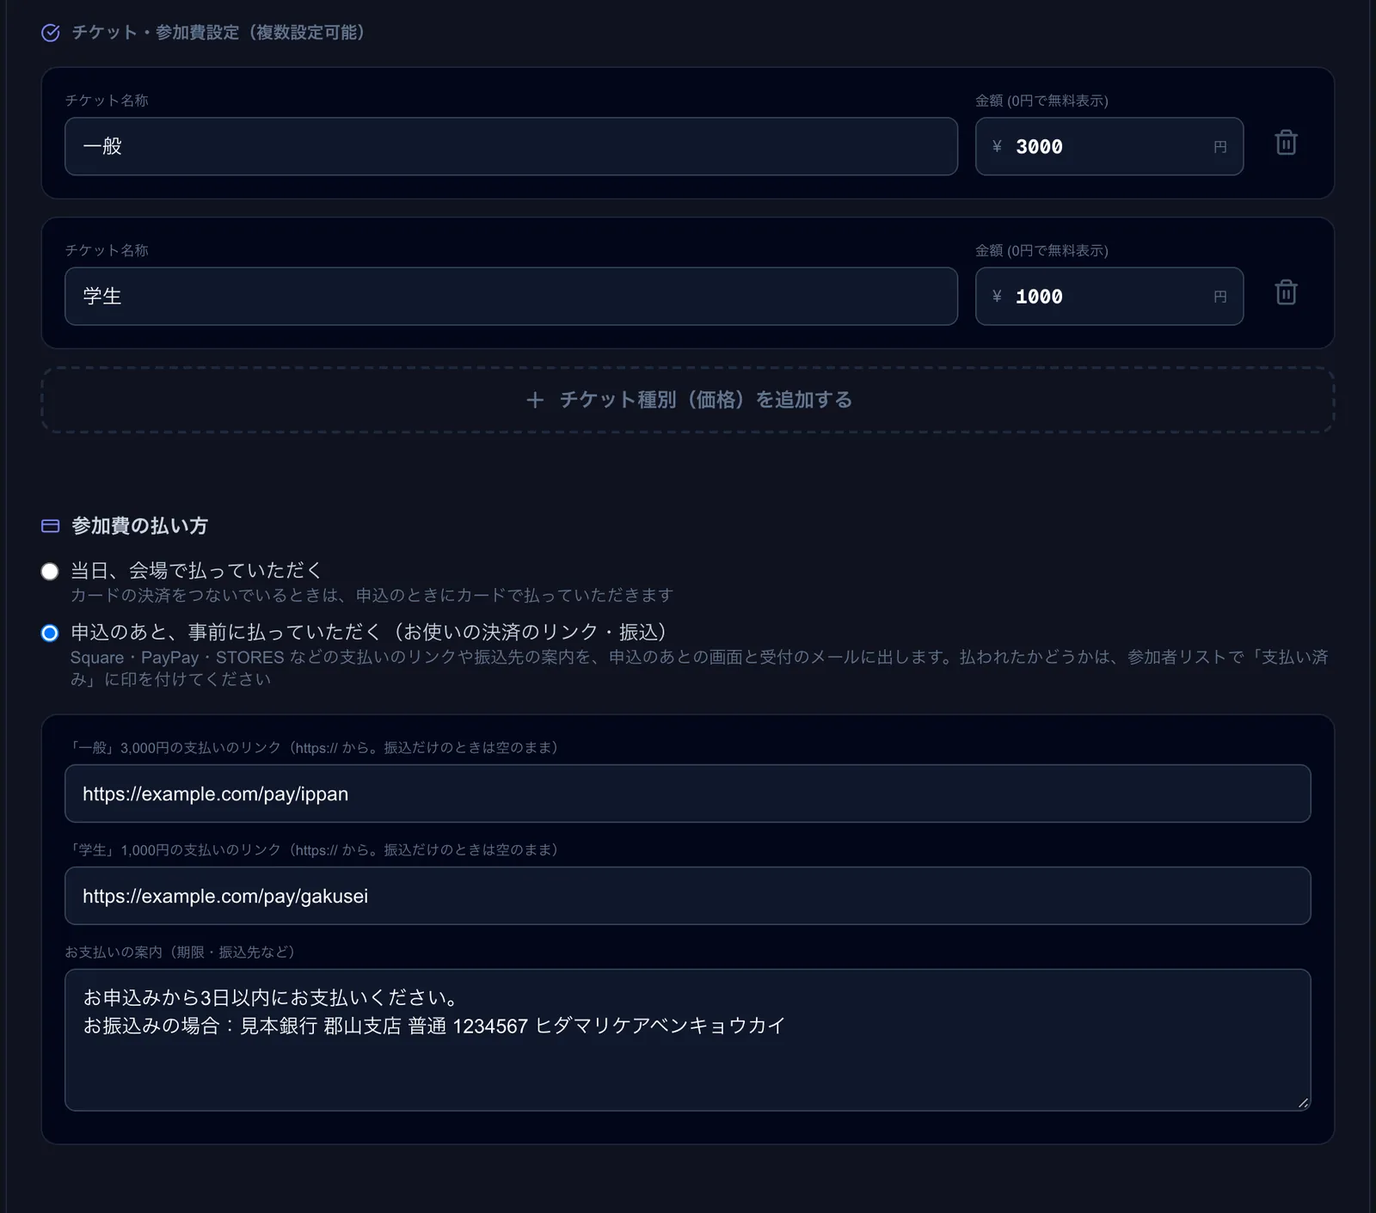
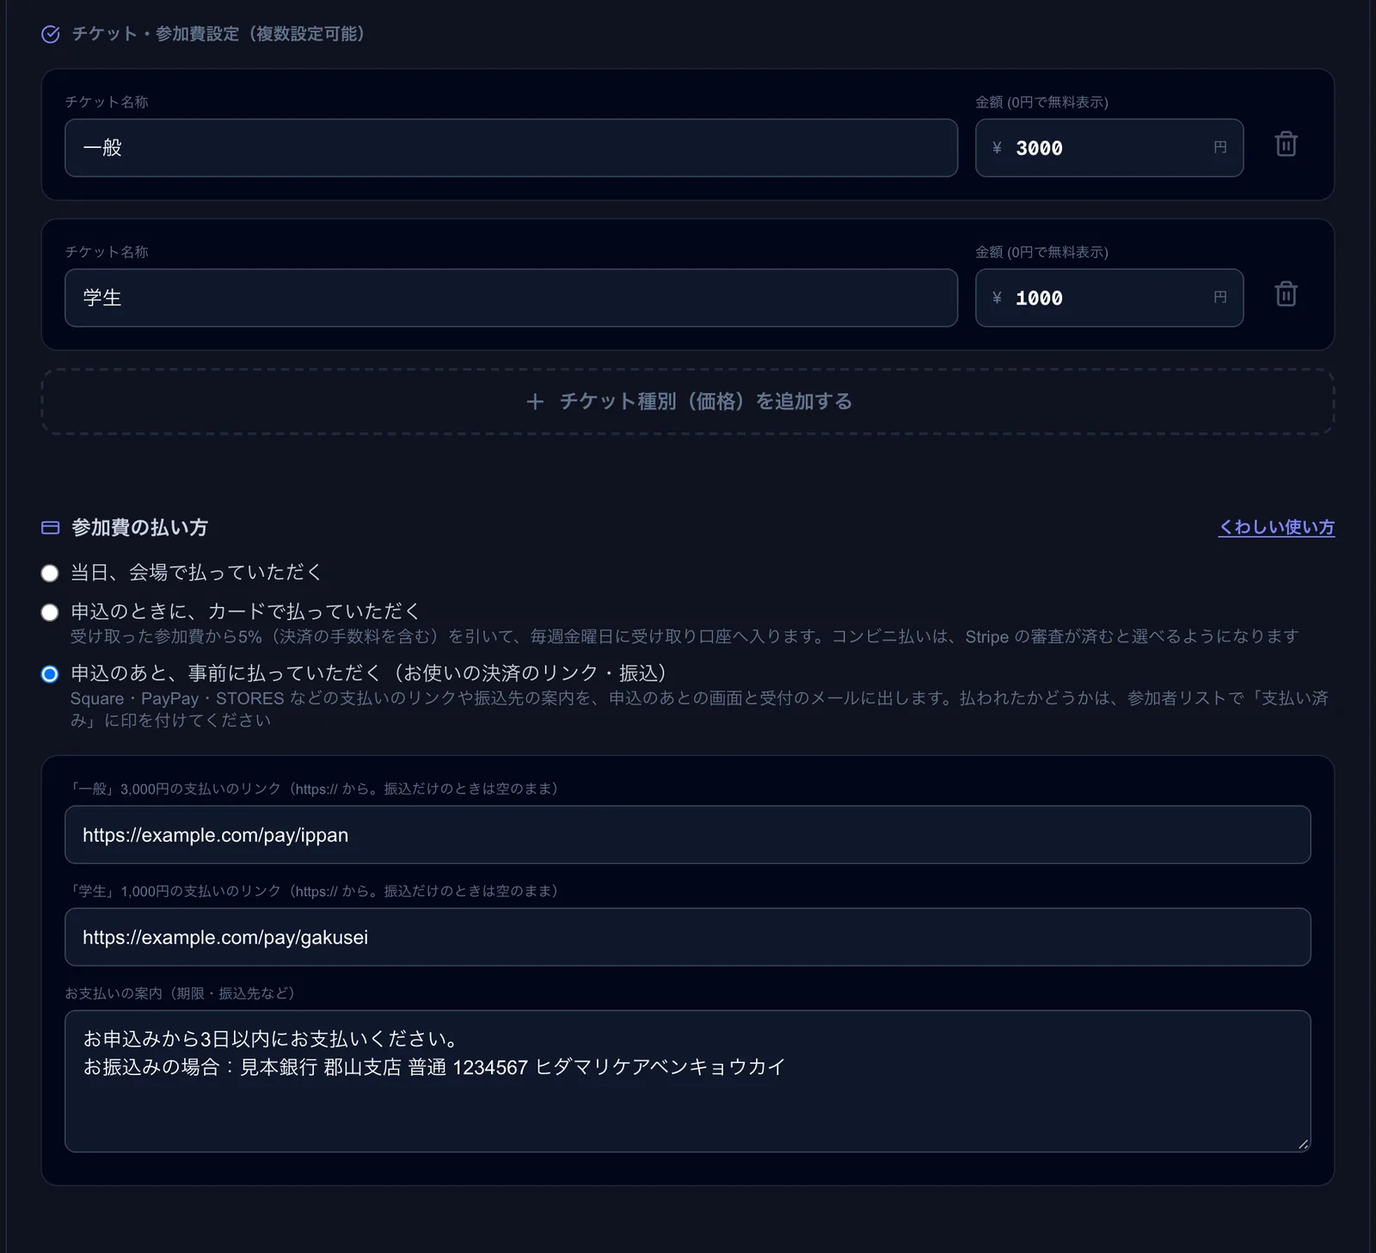
使い方のページに「申込のときに、カードで払っていただく」を足す：受け取り口座の登録と払い方の選び方、参加者の申込フォーム → Stripe の決済の画面 → 申込完了を、写真に赤い枠と番号で（参加者の画面は「申込ページの見本」で見本の参加者を入れて撮り、メールアドレスと QR は隠した）。参加費の払い方の写真を、払い方が3つの画面に撮り直す

diff --git a/app/guide/page.tsx b/app/guide/page.tsx
@@ -1,11 +1,12 @@
 // 📂 app/guide/page.tsx
 // 📝 役割：絆太郎でできること・使い方（画面の写真つき）。準備 → 申込 → 当日 → 終わったあと → 次のご案内 の順に並べる
 //   写真は手元で、架空の主催者「ひだまりケア勉強会（見本）」と架空の参加者のデータで撮った（public/guide/*.webp）
+//   カード払いの参加者の画面（#cardpay）だけは、本番の「申込ページの見本」のイベントに見本の参加者を入れて撮った（2026-11-03）
 import type { Metadata } from "next";
 import Link from "next/link";
 import type { ReactNode } from "react";
 import { ArrowRight, CalendarPlus, ClipboardList, Mail, MousePointerClick, QrCode, Send, UserPlus } from "lucide-react";
-import { Part, Phone, Phones, Screen } from "@/components/guide/GuideShots";
+import { Part, Phone, Phones, Screen, Steps } from "@/components/guide/GuideShots";
 
 export const metadata: Metadata = {
   title: "できること・使い方",
@@ -20,7 +21,7 @@ function Feature({ id, title, path, children, media, side = false }: { id?: stri
   return (
     <div id={id} className={`scroll-mt-24 py-10 md:py-14 border-t border-slate-200 first:border-t-0 ${side ? "md:grid md:grid-cols-[minmax(0,1fr)_auto] md:gap-12 md:items-start" : ""}`}>
       <div className={side ? "" : "max-w-3xl"}>
-        <h3 className="text-xl md:text-2xl font-bold text-slate-900 leading-snug mb-4">{title}</h3>
+        <h3 className="text-xl md:text-2xl font-bold text-slate-900 leading-snug mb-4 text-balance [word-break:auto-phrase]">{title}</h3>
         <div className="text-[15px] md:text-base text-slate-700 leading-[1.9] space-y-3">{children}</div>
         {path && (
           <p className="mt-4 flex items-start gap-2 text-sm text-slate-500">
@@ -82,7 +83,7 @@ export default function GuidePage() {
           <p className="mt-5 text-base md:text-lg text-slate-700 leading-[1.9] max-w-3xl">
             申込の受付から、当日の受付、アンケート、次のご案内まで。イベントの前から後までを、実際の画面の写真でご案内します。
           </p>
-          <p className="mt-3 text-sm text-slate-500">写真の主催者・講師・参加者は、すべて架空の見本です。</p>
+          <p className="mt-3 text-sm text-slate-500">写真の主催者・講師・参加者は、すべて架空の見本です。カード払いの参加者の画面は、トップページの「申込ページの見本」（運営会社の見本のイベント）に見本の参加者を入れて撮りました。</p>
 
           <nav aria-label="もくじ" className="mt-8 grid grid-cols-1 sm:grid-cols-2 lg:grid-cols-3 gap-3">
             {FLOW.map(f => (
@@ -118,7 +119,7 @@ export default function GuidePage() {
           </Feature>
 
           <Feature id="payment" title="参加費と、お支払いの方法" path="イベントの編集の「チケット・参加費設定」「参加費の払い方」「キャンセル・返金ポリシー」"
-            media={<div className="space-y-6"><Part name="editor-tickets" alt="チケットを一般・学生に分け、参加費の払い方で事前のお支払いを選び、お支払いのリンクと振込先の案内を入れた画面" /><div className="max-w-xl"><Part name="editor-cancel" alt="キャンセル・返金ポリシー。開催日の7日前まで100%、2日前まで50%を返金" /></div></div>}>
+            media={<div className="space-y-6"><Part name="editor-tickets" alt="チケットを一般・学生に分け、参加費の払い方の3つから事前のお支払いを選び、お支払いのリンクと振込先の案内を入れた画面" /><div className="max-w-xl"><Part name="editor-cancel" alt="キャンセル・返金ポリシー。開催日の7日前まで100%、2日前まで50%を返金" /></div></div>}>
             <p>「一般」「学生」のように、金額の違うチケットを作れます。払い方は、次の3つから選べます。</p>
             <div className="overflow-x-auto">
               <table className="w-full min-w-[520px] text-sm border border-slate-200 bg-white">
@@ -126,11 +127,75 @@ export default function GuidePage() {
                 <tbody>
                   <tr><td className="p-3 border-b border-slate-200 align-top">当日、会場で</td><td className="p-3 border-b border-slate-200">申込のあと、当日に会場で払います。</td></tr>
                   <tr><td className="p-3 border-b border-slate-200 align-top">申込のあと、事前に</td><td className="p-3 border-b border-slate-200">申込の完了画面と受付のメールに、お支払いのリンク（Square・PayPay・STORES など、お使いの決済）や振込先が出ます。払われたかどうかは、参加者リストで「支払い済み」に印を付けます。</td></tr>
-                  <tr><td className="p-3 align-top">申込のときに、カードで</td><td className="p-3">申込のときにカードで払います（コンビニ払いも、準備が整いしだい選べるようになります）。主催者は、設定の「参加費の受け取り口座」を登録しておきます。受け取った参加費から5%（決済の手数料を含む）を引いて、毎週金曜日に口座へ入ります。</td></tr>
+                  <tr><td className="p-3 align-top">申込のときに、カードで</td><td className="p-3">申込のときにカードで払います（コンビニ払いも、準備が整いしだい選べるようになります）。主催者は、設定の「参加費の受け取り口座」を登録しておきます。受け取った参加費から5%（決済の手数料を含む）を引いて、毎週金曜日に口座へ入ります。<a href="#cardpay" className="underline underline-offset-4" style={{ color: ORANGE }}>写真つきの流れ</a></td></tr>
                 </tbody>
               </table>
             </div>
             <p>キャンセル・返金の決まり（例：7日前まで全額）を決めると、申込フォームに表示されます。</p>
+          </Feature>
+
+          <Feature id="cardpay" title="申込のときに、カードで払っていただく" path="右上の歯車（設定）の「参加費の受け取り口座」と、イベントの編集の「参加費の払い方」"
+            media={<div className="space-y-14">
+              <div className="space-y-6">
+                <p className="text-sm font-bold text-slate-500">主催者の準備</p>
+                <div className="grid gap-6 sm:grid-cols-2 items-start max-w-3xl">
+                  <Part name="card-setup" alt="設定の有料イベントの決済設定。参加費の受け取り口座（カード払い）が「まだ」で、受け取りの口座を登録するのボタン" marks={[[1, 88, 594, 392, 80]]} />
+                  <Part name="card-ready" alt="登録が済んだあとの参加費の受け取り口座。「使えます」と、入金の記録を見る（Stripe）のボタン" />
+                </div>
+                <div className="max-w-2xl"><Part name="editor-paycard" alt="イベントの編集の参加費の払い方。申込のときに、カードで払っていただくを選んだところ" marks={[[2, 12, 138, 1132, 116]]} /></div>
+                <div className="max-w-3xl text-[15px] md:text-base text-slate-700 leading-[1.9]">
+                  <Steps items={[
+                    [1, <>設定の「参加費の受け取り口座」で「受け取りの口座を登録する」を押し、Stripe（決済の会社）の画面で、口座と代表者の本人確認などを入れます。登録が済むと「使えます」になります。</>],
+                    [2, <>イベントの編集の「参加費の払い方」で「申込のときに、カードで払っていただく」を選びます。</>],
+                  ]} />
+                </div>
+              </div>
+
+              <div className="space-y-10">
+                <div>
+                  <p className="text-sm font-bold text-slate-500">参加者の流れ</p>
+                  <p className="mt-2 text-sm text-slate-500 leading-relaxed">トップページのいちばん下の「<Link href="/sample-event" className="underline underline-offset-4" style={{ color: ORANGE }}>申込ページの見本</Link>」で、実際に申し込んで試せます（100円。受付のメールからキャンセルすると返金されます）。</p>
+                </div>
+                <div className="md:grid md:grid-cols-[auto_minmax(0,1fr)] md:gap-10 md:items-start space-y-6 md:space-y-0">
+                  <div className="flex flex-wrap justify-center gap-5"><Phone name="card-form-top" alt="スマホの申込フォーム（上）。チケットと、お名前・メールアドレス・電話番号・会社名" marks={[[1, 35, 226, 530, 117], [2, 35, 446, 530, 701]]} /><Phone name="card-form-bottom" alt="スマホの申込フォーム（下）。お支払いとキャンセルの案内、同意のチェック、申し込むボタン" marks={[[3, 35, 27, 530, 585], [4, 35, 652, 530, 184], [5, 35, 934, 530, 107]]} /></div>
+                  <div className="text-[15px] md:text-base text-slate-700 leading-[1.9]">
+                    <p className="font-bold text-slate-900 mb-3">申込フォーム</p>
+                    <Steps items={[
+                      [1, <>チケットを選びます。金額が出ます。</>],
+                      [2, <>お名前・メールアドレス・電話番号などを入れます。</>],
+                      [3, <>お支払いの方法と時期、キャンセル・返金の決まりが出ます。</>],
+                      [4, <>プライバシーポリシーへの同意にチェックを入れます。</>],
+                      [5, <>「100円で申し込む」（参加費の金額が出ます）を押すと、Stripe の決済の画面に移ります。</>],
+                    ]} />
+                  </div>
+                </div>
+                <div className="md:grid md:grid-cols-[auto_minmax(0,1fr)] md:gap-10 md:items-start space-y-6 md:space-y-0">
+                  <div className="w-full md:w-[520px]"><Part name="card-checkout" alt="Stripe の決済の画面。イベント名と金額、決済手段のカードとカード番号などの欄、支払うボタン" marks={[[1, 34, 72, 388, 88], [2, 575, 252, 396, 418], [3, 575, 677, 396, 72]]} /></div>
+                  <div className="text-[15px] md:text-base text-slate-700 leading-[1.9]">
+                    <p className="font-bold text-slate-900 mb-3">Stripe の決済の画面</p>
+                    <Steps items={[
+                      [1, <>申し込んだイベント・チケットと金額が出ます。</>],
+                      [2, <>カード番号・有効期限・セキュリティコード・カード名義を入れます。Apple Pay・Google Pay なども使えます（お使いの端末によって出ます）。</>],
+                      [3, <>「支払う」を押すと決済されます。</>],
+                    ]} />
+                    <p className="mt-3 text-sm text-slate-500">メールアドレスは、申込フォームで入れたものが入ります（写真では隠しています）。</p>
+                  </div>
+                </div>
+                <div className="md:grid md:grid-cols-[auto_minmax(0,1fr)] md:gap-10 md:items-start space-y-6 md:space-y-0">
+                  <div className="flex justify-center"><Phone name="card-thanks" alt="スマホの申込完了のページ。お申し込み完了と、受講票のQRコード（写真は見本）" marks={[[1, 44, 254, 511, 413]]} /></div>
+                  <div className="text-[15px] md:text-base text-slate-700 leading-[1.9]">
+                    <p className="font-bold text-slate-900 mb-3">申込完了</p>
+                    <Steps items={[
+                      [1, <>当日の受付で使う受講票のQRコードが出ます（写真のQRは見本です）。同時に受付のメールが届き、お支払いは「クレジットカード決済済」と出ます。</>],
+                    ]} />
+                    <p className="mt-3">キャンセルは、受付のメールのリンクから参加者がします。キャンセル・返金の決まりに沿って、カードへ自動で返金します。</p>
+                  </div>
+                </div>
+              </div>
+            </div>}>
+            <p>参加者は、申込のときに Stripe（決済の会社）の画面で、カードで払います。払い終わると申込が確定し、受付のメールが届きます。</p>
+            <p>受け取った参加費から5%（決済の手数料を含む）を引いて、毎週金曜日に主催者の受け取り口座へ入ります。例えば参加費 5,000円なら、4,750円が入ります。参加者からは手数料をいただきません。</p>
+            <p>返金したときも、5%の手数料は戻りません。コンビニ払いは、準備が整いしだい選べるようになります。</p>
           </Feature>
 
           <Feature id="flyer" title="チラシを作る" path="イベントのカードの「チラシ」" side

diff --git a/components/guide/GuideShots.tsx b/components/guide/GuideShots.tsx
@@ -2,6 +2,8 @@
 // 📝 役割：使い方のページの写真（public/guide/*.webp）を、パソコンの画面・切り抜き・スマホの枠で出す部品
 //   公開の使い方（/guide）と、管理画面の「参加費の受け取り方」（/admin/guide/payments）で同じものを使う
 //   写真は手元で、架空の主催者「ひだまりケア勉強会（見本）」と架空の参加者のデータで撮った
+//   カード払いの参加者の画面（card-form-*・card-checkout・card-thanks）は、本番の「申込ページの見本」のイベントで撮った（参加者は架空・メールアドレスと QR は隠した）
+//   marks＝写真の上の赤い枠と番号（写真のピクセルで書く）。説明は Steps に同じ番号で並べる
 import type { ReactNode } from "react";
 
 // 写真の大きさ（幅・高さ）。public/guide にある WebP と同じ
@@ -9,14 +11,51 @@ const IMG: Record<string, [number, number]> = {
   "admin-top": [1600, 1075], "event-card": [1600, 375],
   "theme-medical": [600, 1298], "theme-pop": [600, 1298], "theme-editorial": [600, 1298], "theme-nature": [600, 1298],
   "editor-theme": [1600, 1337], "editor-questions": [1600, 1321], "apply-form": [600, 1808],
-  "editor-tickets": [1600, 1411], "editor-cancel": [1200, 421], "flyer": [1200, 1693],
+  "editor-tickets": [1600, 1457], "editor-cancel": [1200, 421], "flyer": [1200, 1693],
   "apply-complete": [600, 1542], "editor-mail": [1600, 1166], "participants": [1600, 1125],
   "editor-presurvey": [1600, 773], "presurvey": [600, 1298], "mail-send": [1600, 1125],
   "checkin": [600, 1298], "survey-qr": [816, 1228], "survey": [600, 1789], "survey-results": [1600, 1125],
   "report-top": [1400, 1518], "report-survey": [1400, 1096], "kizuna-list": [1600, 1188],
   "newsletter": [1600, 1375], "card-scan": [600, 1298], "analytics": [1600, 1125], "staff": [900, 1554],
   "mail-delivery": [1520, 1084],
+  "card-setup": [956, 851], "card-ready": [956, 855], "editor-paycard": [1160, 400],
+  "card-form-top": [600, 1173], "card-form-bottom": [600, 1076], "card-checkout": [1000, 806], "card-thanks": [600, 1074],
 };
+// "editor-tickets" は 2026-11-03 に撮り直した（払い方が3つになった）
+
+export type Mark = [n: number, x: number, y: number, w: number, h: number];
+
+const RED = "#E5322D";
+
+// 写真の上の赤い枠と番号。親は写真と同じ大きさの relative な箱
+function Marks({ name, marks }: { name: string; marks?: Mark[] }) {
+  if (!marks?.length) return null;
+  const [W, H] = IMG[name];
+  const pct = (v: number, t: number) => `${(v / t) * 100}%`;
+  return (
+    <>
+      {marks.map(([n, x, y, w, h]) => (
+        <span key={n} aria-hidden className="absolute rounded-md pointer-events-none" style={{ left: pct(x, W), top: pct(y, H), width: pct(w, W), height: pct(h, H), border: `3px solid ${RED}`, boxShadow: "0 0 0 1.5px rgba(255,255,255,0.9)" }}>
+          <span className="absolute -left-3 -top-3 w-6 h-6 rounded-full text-white text-[13px] font-bold flex items-center justify-center" style={{ background: RED, boxShadow: "0 0 0 2px #fff" }}>{n}</span>
+        </span>
+      ))}
+    </>
+  );
+}
+
+// 写真の赤い番号と同じ番号の説明
+export function Steps({ items }: { items: [number, ReactNode][] }) {
+  return (
+    <ol className="space-y-3">
+      {items.map(([n, t]) => (
+        <li key={n} className="flex items-start gap-3">
+          <span className="mt-[3px] w-6 h-6 rounded-full text-white text-[13px] font-bold flex items-center justify-center shrink-0" style={{ background: RED }} aria-hidden>{n}</span>
+          <span>{t}</span>
+        </li>
+      ))}
+    </ol>
+  );
+}
 
 export function Img({ name, alt, className = "" }: { name: string; alt: string; className?: string }) {
   const [w, h] = IMG[name];
@@ -35,20 +74,31 @@ export function Screen({ name, alt }: { name: string; alt: string }) {
   );
 }
 
-// 画面の一部を切り抜いた写真
-export function Part({ name, alt }: { name: string; alt: string }) {
+// 画面の一部を切り抜いた写真（marks＝赤い枠と番号。番号が角からはみ出しても切れないよう、枠は写真の外の箱に置く）
+export function Part({ name, alt, marks }: { name: string; alt: string; marks?: Mark[] }) {
+  if (!marks?.length) {
+    return (
+      <figure className="rounded-xl overflow-hidden border border-slate-200 shadow-[0_12px_32px_rgba(15,23,42,0.10)]">
+        <Img name={name} alt={alt} />
+      </figure>
+    );
+  }
   return (
-    <figure className="rounded-xl overflow-hidden border border-slate-200 shadow-[0_12px_32px_rgba(15,23,42,0.10)]">
-      <Img name={name} alt={alt} />
+    <figure className="relative">
+      <div className="rounded-xl overflow-hidden border border-slate-200 shadow-[0_12px_32px_rgba(15,23,42,0.10)]"><Img name={name} alt={alt} /></div>
+      <Marks name={name} marks={marks} />
     </figure>
   );
 }
 
-// スマホの画面（fluid は並べた枠の幅いっぱい）
-export function Phone({ name, alt, fluid = false }: { name: string; alt: string; fluid?: boolean }) {
+// スマホの画面（fluid は並べた枠の幅いっぱい・marks＝赤い枠と番号）
+export function Phone({ name, alt, fluid = false, marks }: { name: string; alt: string; fluid?: boolean; marks?: Mark[] }) {
   return (
     <figure className={`${fluid ? "w-full" : "w-[230px] sm:w-[250px]"} shrink-0 rounded-[22px] sm:rounded-[30px] bg-slate-900 p-[5px] sm:p-[7px] shadow-[0_16px_36px_rgba(15,23,42,0.22)]`}>
-      <div className="rounded-[18px] sm:rounded-[24px] overflow-hidden bg-slate-900"><Img name={name} alt={alt} /></div>
+      <div className="relative">
+        <div className="rounded-[18px] sm:rounded-[24px] overflow-hidden bg-slate-900"><Img name={name} alt={alt} /></div>
+        <Marks name={name} marks={marks} />
+      </div>
     </figure>
   );
 }

diff --git a/app/admin/guide/payments/page.tsx b/app/admin/guide/payments/page.tsx
@@ -199,12 +199,13 @@ export default function PaymentsGuidePage() {
           <div className="rounded-xl border border-slate-200 bg-white p-5">
             <p className="font-bold text-slate-900 mb-1">カードで受け取るには</p>
             <p>右上の歯車（設定）の「参加費の受け取り口座」から、Stripe（決済の会社）の画面で、口座と代表者の本人確認などを登録します。登録が済むと、イベントの「参加費の払い方」で「申込のときに、カードで」を選べます。例えば参加費 5,000円なら、受け取り口座へは 4,750円が入ります。</p>
+            <p className="mt-2">登録の画面と、参加者が払う流れ（申込フォーム → Stripe の決済の画面 → 申込完了）は、<a href="/guide#cardpay" target="_blank" rel="noopener noreferrer" className="text-indigo-600 font-bold underline underline-offset-2">使い方のページ</a>に写真つきで載せています。</p>
           </div>
         </Block>
 
         <Block id="setup" n={2} title="設定のしかた"
           path="管理画面のイベントのカードを押す（新しく作るときは「＋新規イベント」）→「チケット・参加費設定」「参加費の払い方」「キャンセル・返金ポリシー」"
-          media={<div className="space-y-6"><Part name="editor-tickets" alt="チケットを一般・学生に分け、参加費の払い方で事前のお支払いを選び、お支払いのリンクと振込先の案内を入れた画面" /><div className="max-w-xl"><Part name="editor-cancel" alt="キャンセル・返金ポリシー。開催日の7日前まで100%、2日前まで50%を返金" /></div></div>}>
+          media={<div className="space-y-6"><Part name="editor-tickets" alt="チケットを一般・学生に分け、参加費の払い方の3つから事前のお支払いを選び、お支払いのリンクと振込先の案内を入れた画面" /><div className="max-w-xl"><Part name="editor-cancel" alt="キャンセル・返金ポリシー。開催日の7日前まで100%、2日前まで50%を返金" /></div></div>}>
           <ol className="list-decimal pl-6 space-y-3">
             <li>「チケット・参加費設定」で、チケットの名前と金額を入れます。一般・学生など、いくつでも分けられます。0円のチケットは「無料」と表示されます。</li>
             <li>有料のチケットがあると「参加費の払い方」が出ます。「当日、会場で払っていただく」「申込のときに、カードで払っていただく」「申込のあと、事前に払っていただく」から選びます。カードは、受け取り口座の登録が済むと選べます。</li>
